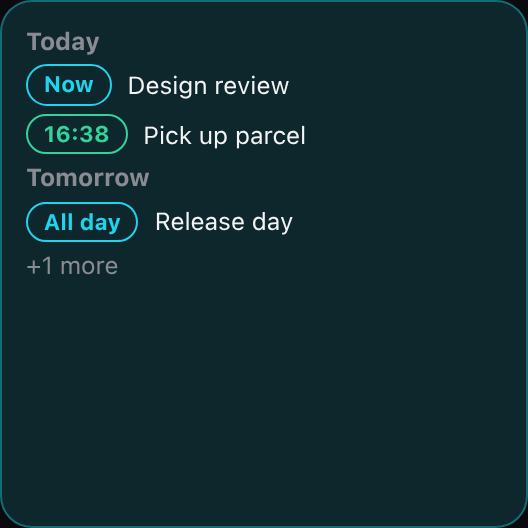
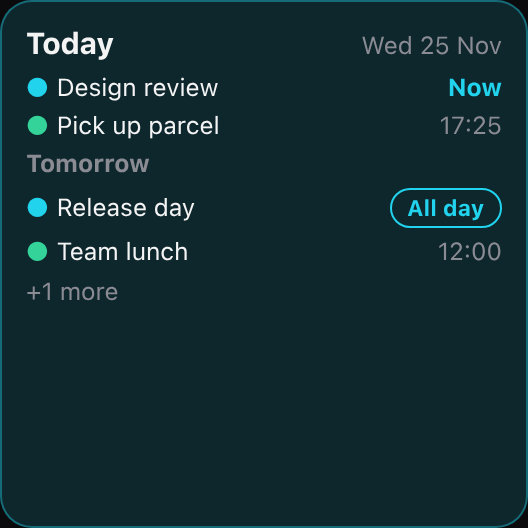
Calendar: a clearer tile
Today's date on top, a dot per calendar, the time in one column on the right and
a pill there for all-day events. One or two events get two lines each, so their
titles show in full. A free day says how far off the next event is, even past
the days the tile looks at. The icon is one the phone has.

Refs #5

diff --git a/plugins/calendar/src/card.ts b/plugins/calendar/src/card.ts
@@ -1,4 +1,4 @@
-/** The tile: the next events, grouped by day. Titles and times only: no description, place or link of an event leaves the computer. */
+/** The tile: today's date, then the next events. Titles and times only: no description, place or link of an event leaves the computer. */
 import type { Occurrence } from "./events";
 
 export interface View {
@@ -8,9 +8,12 @@ export interface View {
   hour24: boolean;
   /** how many events the tile shows */
   rows: number;
+  /** how far ahead it looks, today included */
+  days: number;
 }
 
 type Node = Record<string, unknown>;
+/** One colour per calendar link, in order. */
 export const TONES = ["accent", "ok", "warn", "bad"] as const;
 const SHORT = ["Sun", "Mon", "Tue", "Wed", "Thu", "Fri", "Sat"];
 const MONTHS = ["Jan", "Feb", "Mar", "Apr", "May", "Jun", "Jul", "Aug", "Sep", "Oct", "Nov", "Dec"];
@@ -26,6 +29,8 @@ export function timeText(ms: number, hour24: boolean): string {
   if (hour24) return `${String(h).padStart(2, "0")}:${m}`;
   return `${h % 12 || 12}${m === "00" ? "" : `:${m}`} ${h < 12 ? "AM" : "PM"}`;
 }
+
+export const dateText = (ms: number): string => { const d = new Date(ms); return `${SHORT[d.getDay()]} ${d.getDate()} ${MONTHS[d.getMonth()]}`; };
 
 /** Midnight that starts the week after the one `now` is in. */
 export function nextWeekStart(now: number, firstDay: 0 | 1): number {
@@ -46,30 +51,76 @@ export function groupOf(start: number, view: Pick<View, "now" | "firstDay">): Gr
   return start < new Date(d.getFullYear(), d.getMonth(), d.getDate() + 7).getTime() ? "Next week" : "Later";
 }
 
-/** What the pill says: the time under Today and Tomorrow, the day further out. */
-export function whenText(o: Occurrence, group: Group, view: View): string {
-  const d = new Date(o.start);
-  if (group === "Today" && !o.allDay && o.start <= view.now) return "Now";
-  const time = o.allDay ? "All day" : timeText(o.start, view.hour24);
-  if (group === "Today" || group === "Tomorrow") return time;
-  const day = group === "Later" ? `${d.getDate()} ${MONTHS[d.getMonth()]}` : SHORT[d.getDay()]!;
-  return o.allDay ? day : `${day} ${time}`;
+const short = (start: number, group: Group): string => {
+  const d = new Date(start);
+  return group === "Later" ? `${d.getDate()} ${MONTHS[d.getMonth()]}` : SHORT[d.getDay()]!;
+};
+
+/** The right-hand column: "Now", "16:30" or "Fri 09:00"; for an all-day event "All day", or its day further out. */
+export function whenText(o: Occurrence, group: Group, view: Pick<View, "now" | "hour24">): string {
+  const near = group === "Today" || group === "Tomorrow";
+  if (o.allDay) return near ? "All day" : short(o.start, group);
+  if (group === "Today" && o.start <= view.now) return "Now";
+  return [near ? "" : short(o.start, group), timeText(o.start, view.hour24)].filter(Boolean).join(" ");
 }
 
-export function buildCard(events: Occurrence[], view: View, notes: string[] = []) {
-  const children: Node[] = [];
-  let group: Group | null = null;
-  const shown = events.slice(0, view.rows);
-  for (const o of shown) {
-    const g = groupOf(o.start, view);
-    if (g !== group) children.push({ t: "text", text: (group = g), size: "s", tone: "muted", bold: true });
-    children.push({ t: "row", gap: 2, children: [
-      { t: "pill", text: whenText(o, g, view), tone: TONES[o.calendar % TONES.length] },
-      { t: "text", text: (o.title || "(no title)").slice(0, 200), size: "s" },
-    ] });
+/** Calendar days from today to the day of `start`. */
+export const daysAway = (start: number, now: number): number => Math.round((midnight(start) - midnight(now)) / 86_400_000);
+const away = (n: number) => (n === 1 ? "tomorrow" : `in ${n} days`);
+
+const title = (o: Occurrence) => (o.title || "(no title)").slice(0, 200);
+const muted = (text: string, more: Node = {}): Node => ({ t: "text", text, size: "s", tone: "muted", ...more });
+
+/** With this many events or fewer there is room for two lines each, so no title is cut to make way for its time. */
+export const ROOMY_MAX = 2;
+
+/**
+ * A dot in the calendar's colour and the title on the left, which gives way when there is no room; the time stays in one column
+ * on the right. An all-day event has a pill there instead. With room to spare (`roomy`) the time goes under the title.
+ */
+function eventRow(o: Occurrence, group: Group, view: View, roomy: boolean): Node {
+  const tone = TONES[o.calendar % TONES.length];
+  const when = whenText(o, group, view);
+  const time: Node = o.allDay ? { t: "pill", text: when, tone } : when === "Now" ? { t: "text", text: when, size: "s", tone, bold: true } : muted(when);
+  const dot: Node = { t: "text", text: "●", size: "s", tone };
+  const name: Node = { t: "text", text: title(o), size: "s" };
+  if (roomy) return { t: "row", gap: 1, children: [dot, { t: "col", gap: 0, grow: true, children: [name, time] }] };
+  return { t: "row", gap: 2, align: "between", children: [{ t: "row", gap: 1, grow: true, children: [dot, name] }, time] };
+}
+
+/** Always the top of the tile: what a small tile shows first. */
+const header = (now: number): Node => ({ t: "row", gap: 2, align: "between", children: [{ t: "text", text: "Today", bold: true }, muted(dateText(now))] });
+
+/** `next` is the first event after the days the tile looks at: it is shown only when those days hold nothing at all. */
+export function buildCard(events: Occurrence[], view: View, notes: string[] = [], next?: Occurrence) {
+  const children: Node[] = [header(view.now)];
+  const shown = events.length ? events.slice(0, view.rows) : next ? [next] : [];
+  const first = shown[0];
+  const free = !first || groupOf(first.start, view) !== "Today";
+  if (free) {
+    children.push({ t: "row", gap: 2, children: [{ t: "icon", name: "calendar", tone: "accent" }, { t: "text", text: "Nothing today" }] });
+    if (!first) children.push(muted(view.days > 1 ? `Nothing in the next ${view.days} days` : "The day is yours"));
   }
-  if (!shown.length) children.push({ t: "text", text: "Nothing coming up", tone: "muted" });
-  if (events.length > shown.length) children.push({ t: "text", text: `+${events.length - shown.length} more`, size: "s", tone: "muted" });
+  let group: Group = "Today";
+  shown.forEach((o, i) => {
+    const g = groupOf(o.start, view);
+    const row = eventRow(o, g, view, shown.length <= ROOMY_MAX);
+    if (g === group) return void children.push(row);
+    group = g;
+    // after a free day the first heading says how far off the next event is
+    const heading = free && i === 0 && daysAway(o.start, view.now) > 1 ? `Next ${away(daysAway(o.start, view.now))}` : g;
+    // A heading and its first event are one part, so a small tile never ends on a heading with nothing under it.
+    // "Next in 29 days" says something by itself, so it stays when its event does not fit.
+    if (heading === g) children.push({ t: "col", gap: 1, children: [muted(heading, { bold: true }), row] });
+    else children.push(muted(heading, { bold: true }), row);
+  });
+  if (events.length > shown.length) children.push(muted(`+${events.length - shown.length} more`));
   for (const n of notes.slice(0, 2)) children.push({ t: "text", text: n.slice(0, 200), size: "s", tone: "warn" });
   return { root: { t: "col", gap: 1, children } };
+}
+
+/** Before any link is set. */
+export function setupCard(now: number) {
+  return { root: { t: "col", gap: 1, children: [header(now), { t: "row", gap: 2, children: [{ t: "icon", name: "calendar", tone: "accent" }, { t: "text", text: "No calendar yet" }] },
+    muted("Add a calendar link in the plugin's settings on your computer")] } };
 }

diff --git a/plugins/calendar/test/calendar.test.ts b/plugins/calendar/test/calendar.test.ts
@@ -122,7 +122,7 @@ describe("links", () => {
 });
 
 describe("the tile", () => {
-  const view = { now: NOW, firstDay: 1 as const, hour24: true, rows: 4 };
+  const view = { now: NOW, firstDay: 1 as const, hour24: true, rows: 4, days: 7 };
 
   test("the first day of the week decides where next week begins", () => {
     expect(nextWeekStart(NOW, 1)).toBe(local(11, 30)); // Monday
@@ -136,14 +136,56 @@ describe("the tile", () => {
     expect([timeText(local(11, 25, 0, 5), true), timeText(local(11, 25, 14), true)]).toEqual(["00:05", "14:00"]);
     expect([timeText(local(11, 25, 0, 5), false), timeText(local(11, 25, 14), false), timeText(local(11, 25, 12, 30), false)]).toEqual(["12:05 AM", "2 PM", "12:30 PM"]);
   });
-  test("what the pill says", () => {
-    const o = (start: number, allDay = false): Occurrence => ({ title: "x", start, end: start + 3_600_000, allDay, calendar: 0 });
+  const o = (start: number, allDay = false, calendar = 0, title = "x"): Occurrence => ({ title, start, end: start + 3_600_000, allDay, calendar });
+  /** the words of each line of the card, left to right; a heading's group is opened up */
+  const words = (n: any): string[] => (n.children ? n.children.flatMap(words) : [n.t === "icon" ? n.name : n.text]);
+  const lines = (card: { root: unknown }) => (card.root as any).children.flatMap((n: any) => (n.t === "col" ? n.children : [n])).map((n: any) => words(n).join(" | "));
+
+  test("what the right-hand column says", () => {
     expect(whenText(o(local(11, 25, 7, 30)), "Today", view)).toBe("Now");
     expect(whenText(o(local(11, 25), true), "Today", view)).toBe("All day");
     expect(whenText(o(local(11, 26, 16, 30)), "Tomorrow", view)).toBe("16:30");
     expect(whenText(o(local(11, 27, 9)), "This week", view)).toBe("Fri 09:00");
     expect(whenText(o(local(11, 28), true), "This week", view)).toBe("Sat");
     expect(whenText(o(local(12, 24, 9)), "Later", view)).toBe("24 Dec 09:00");
+  });
+  test("today's date on top, a dot and a title for each event, pills for all-day ones", () => {
+    const card = buildCard([o(local(11, 25), true, 1, "Holiday"), o(local(11, 25, 7, 30), false, 0, "Standup"), o(local(11, 26, 12), false, 2, "Lunch"), o(local(11, 28), true, 0, "Trip")], view);
+    expect(lines(card)).toEqual([
+      "Today | Wed 25 Nov",
+      "● | Holiday | All day",
+      "● | Standup | Now",
+      "Tomorrow",
+      "● | Lunch | 12:00",
+      "This week",
+      "● | Trip | Sat",
+    ]);
+    expect(JSON.stringify(card)).toContain('{"t":"pill","text":"All day","tone":"ok"}');
+    expect(JSON.stringify(card)).toContain('{"t":"text","text":"●","size":"s","tone":"warn"}');
+  });
+  test("a heading stays with its first event, and few events get two lines each", () => {
+    const two = [o(local(12, 24), true, 0, "Christmas Eve"), o(local(12, 25), true, 0, "Christmas Day")];
+    const parts = (buildCard(two, { ...view, days: 31 }).root as any).children;
+    // "Next in 29 days" stands alone; a plain heading is tied to its event
+    expect(parts.map((n: any) => n.t)).toEqual(["row", "row", "text", "row", "row"]);
+    expect(words((buildCard([o(local(11, 26, 12), false, 0, "Lunch")], view).root as any).children[2])).toEqual(["Tomorrow", "●", "Lunch", "12:00"]);
+    expect(parts[4].children[1]).toMatchObject({ t: "col", children: [{ text: "Christmas Day" }, { t: "pill", text: "25 Dec" }] });
+    const three = (buildCard([...two, o(local(12, 26), true)], { ...view, days: 40 }).root as any).children[4];
+    expect(three.align).toBe("between");
+  });
+  test("a free day says so, and how far the next event is", () => {
+    expect(lines(buildCard([o(local(11, 26, 12), false, 0, "Lunch")], view))).toEqual([
+      "Today | Wed 25 Nov", "calendar | Nothing today", "Tomorrow", "● | Lunch | 12:00",
+    ]);
+    expect(lines(buildCard([o(local(12, 24), true, 0, "Christmas Eve")], { ...view, days: 31 }))).toEqual([
+      "Today | Wed 25 Nov", "calendar | Nothing today", "Next in 29 days", "● | Christmas Eve | 24 Dec",
+    ]);
+    // nothing in the days it looks at: the first event after them, alone
+    expect(lines(buildCard([], view, [], o(local(12, 24), true, 0, "Christmas Eve")))).toEqual([
+      "Today | Wed 25 Nov", "calendar | Nothing today", "Next in 29 days", "● | Christmas Eve | 24 Dec",
+    ]);
+    expect(lines(buildCard([], view))).toEqual(["Today | Wed 25 Nov", "calendar | Nothing today", "Nothing in the next 7 days"]);
+    expect(lines(buildCard([], { ...view, days: 1 }))[2]).toBe("The day is yours");
   });
   test("a full tile stays inside the card limits and counts the rest", () => {
     const many = Array.from({ length: 40 }, (_, i): Occurrence => ({ title: "t".repeat(500), start: NOW + i * 40 * 3_600_000, end: NOW + i * 40 * 3_600_000 + 1, allDay: false, calendar: i % 6 }));
@@ -233,9 +275,17 @@ describe("the plugin", () => {
 
   test("days ahead, first day and the clock come from the settings", async () => {
     const h = harness({ link1: LINK }, ok);
-    expect(await h.tile({ days: 1, rows: 8 })).not.toContain("Tomorrow");
+    expect(await h.tile({ days: 1, rows: 8 })).not.toContain('"Tomorrow"');
     expect(await h.tile({ days: 7, rows: 8, firstDay: "Monday" })).toContain("Next week");
     expect(await h.tile({ days: 7, rows: 8, hour24: false })).toContain("9 AM");
+  });
+
+  test("an empty week still names the next event, and only that one", async () => {
+    const h = harness({ link1: LINK }, () => new Response(holidays!));
+    const tile = await h.tile({ days: 7, rows: 8 });
+    expect(tile).toContain("Next in 29 days");
+    expect(tile).toContain("Christmas Eve");
+    expect(tile).not.toContain("Christmas Day");
   });
 
   test("tiles that ask at once share one fetch", async () => {

diff --git a/plugins/calendar/src/index.ts b/plugins/calendar/src/index.ts
@@ -1,9 +1,11 @@
 import type { PluginContext, PluginModule, Settings } from "@nookdeck/plugin";
-import { buildCard, windowEnd, type View } from "./card";
+import { buildCard, setupCard, windowEnd, type View } from "./card";
 import { expand, type Occurrence } from "./events";
 import { parseEvents, type VEvent } from "./ics";
 import { MAX_LINKS, checkLink, fetchProblem, statusProblem } from "./links";
 
+/** How far the tile looks for the next event when the days it shows are empty. */
+export const LOOK_AHEAD_DAYS = 366;
 export const FETCH_EVERY_MS = 10 * 60_000;
 /** A failed link is tried again sooner, but not on every refresh of the tile. */
 export const RETRY_MS = 60_000;
@@ -49,7 +51,7 @@ export function createPlugin(now: () => number = Date.now): PluginModule {
         const links = Array.from({ length: MAX_LINKS }, (_, i) => ({ i, label: `Calendar ${i + 1}`, raw: String(secrets[`link${i + 1}`] ?? "").trim() }))
           .filter((l) => l.raw)
           .map((l) => ({ ...l, check: checkLink(l.raw) }));
-        if (!links.length) return { render: "card", data: { root: { t: "col", gap: 1, children: [{ t: "text", text: "Add a calendar link in the plugin's settings on your computer", tone: "muted" }] } } };
+        if (!links.length) return { render: "card", data: setupCard(now()) };
 
         // links that were removed or changed are forgotten
         const wanted = new Set(links.flatMap((l) => ("url" in l.check ? [l.check.url] : [])));
@@ -62,9 +64,11 @@ export function createPlugin(now: () => number = Date.now): PluginModule {
           firstDay: s.firstDay === "Sunday" ? 0 : 1,
           hour24: s.hour24 !== false,
           rows: int(s.rows, 4, 1, 8),
+          days: int(s.days, 7, 1, 31),
         };
-        const to = windowEnd(view.now, int(s.days, 7, 1, 31));
+        const to = windowEnd(view.now, view.days);
         const events: Occurrence[] = [];
+        const read: { events: VEvent[]; calendar: number }[] = [];
         const notes: string[] = [];
         let loaded = 0;
         for (const l of links) {
@@ -72,13 +76,17 @@ export function createPlugin(now: () => number = Date.now): PluginModule {
           const c = copies.get(l.check.url);
           if (c?.events) {
             loaded++;
+            read.push({ events: c.events, calendar: l.i });
             events.push(...expand(c.events, view.now, to, l.i));
           }
           if (c?.error) notes.push(`${l.label}: ${c.error}${c.events ? " (showing the last copy)" : ""}`);
         }
         if (!loaded) throw new Error(notes[0] ?? "Could not load any calendar");
         events.sort((a, b) => a.start - b.start || Number(b.allDay) - Number(a.allDay));
-        return { render: "card", data: buildCard(events, view, notes) };
+        // days with nothing in them still say when the next event is
+        const next = events.length ? undefined
+          : read.flatMap((r) => expand(r.events, view.now, windowEnd(view.now, LOOK_AHEAD_DAYS), r.calendar)).sort((a, b) => a.start - b.start)[0];
+        return { render: "card", data: buildCard(events, view, notes, next) };
       }, { every: 60 });
     },
   };

diff --git a/plugins/calendar/README.md b/plugins/calendar/README.md
@@ -4,7 +4,9 @@ Your next events on one tile. Works on macOS, Windows and Linux.
 
 <img src="preview.png" width="264" alt="A 2x2 Calendar tile with made-up events under Today and Tomorrow">
 
-- Today's and the next events under **Today**, **Tomorrow**, **This week**, **Next week** and **Later**, each with its time and title.
+- Today's date, then your next events: today's first, followed by **Tomorrow**, **This week**, **Next week** and **Later**.
+- Each event has a dot in its calendar's colour, its title, and its time on the right. An all-day event has a pill there. With only one or two events, each gets two lines so the title shows in full.
+- A free day says **Nothing today** and how far off the next event is, even when it is beyond the days the tile looks at (up to a year).
 - Up to four calendars. Each has its own colour on the tile: calendar 1 uses the theme's accent colour, 2 its "ok" colour, 3 its "warning" colour and 4 its "bad" colour.
 - Repeating events (with removed, moved and cancelled occurrences), all-day events and events over several days.
 - Times are shown in the computer's time zone. The tile is read only.
